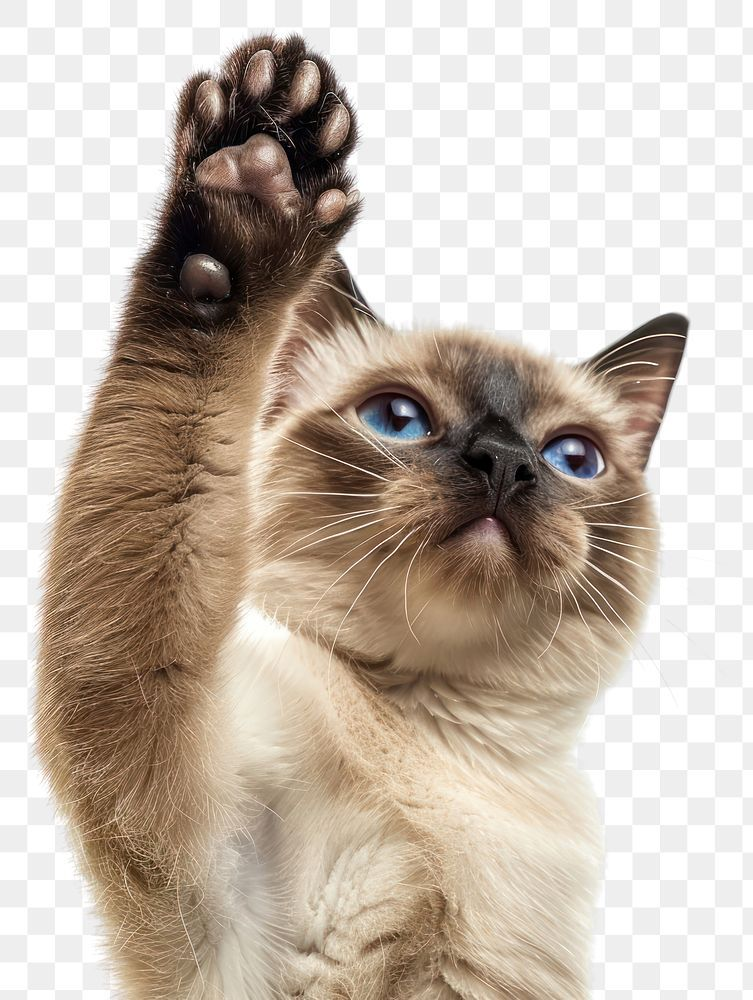
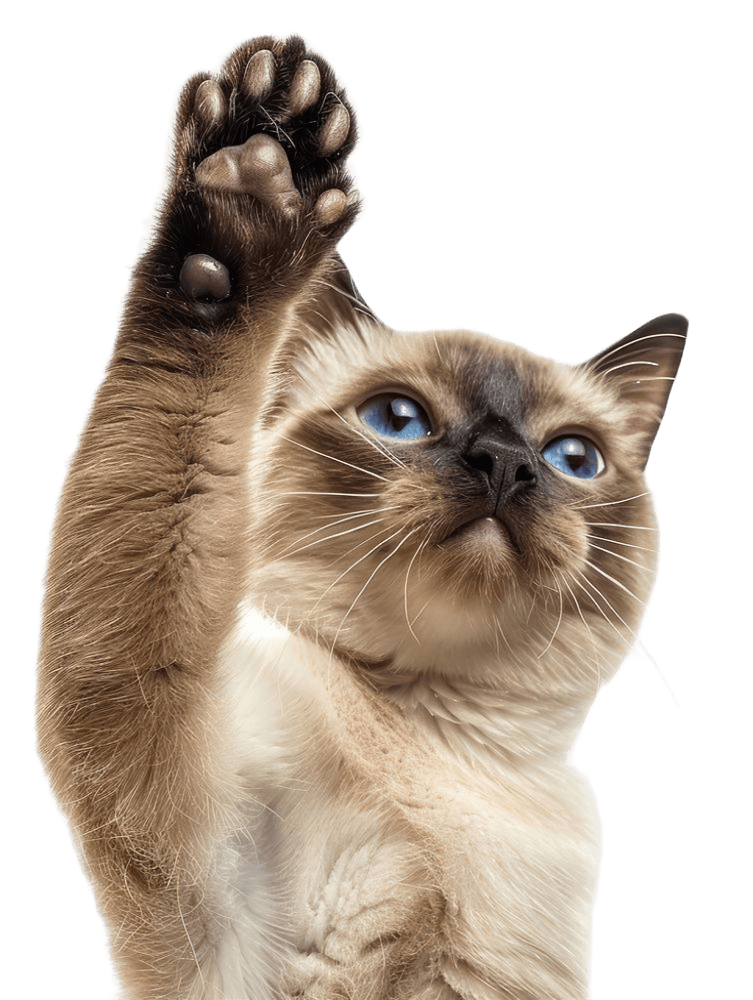
Criei o menu de navegação e a base da tela inicial do site.

diff --git a/style.css b/style.css
@@ -6,10 +6,10 @@
     --font-padrao: Quicksand, sans serif;
     --font-padrao02: Nunito, sans serif;
 
-    --roxo: #501B69;
+    --roxo: #572170;
     --roxo2: #290c37;
-    --lilas: #f9d3ff;
-    --lilas2: #b658c4;
+    --lilas: #f8ceff;
+    --lilas2: #83438d;
     --preto: #000000;
     --branco: #FFFFFF;
 }
@@ -23,4 +23,68 @@
 
 body {
     background-color: var(--lilas);
+}
+
+main {
+    margin-top: 150px;
+    align-items: center;
+}
+
+.hero {
+    display: flex;
+    align-items: center;
+    justify-content: space-between;
+    padding: 2rem 5%;
+    max-width: 1200px;
+    margin: 140px auto 0 auto; /* Mantem o espaçamento da nav*/
+    position: relative;
+}
+
+.petis-texto {
+    flex: 1;
+    max-width: 500px;
+}
+
+/* Container da img com posição relativa*/
+.petis-imagem {
+    flex: 1;
+    position: relative;
+    display: flex;
+    justify-content: center;
+    align-items: flex-end;
+}
+
+/* Imagem dos pets em png*/
+.petis-imagem img {
+    position: relative;
+    z-index: 2; /* Fica á frente do fundo lilás*/
+    max-width: 100%;
+    height: auto;
+    border-radius: 50% 30% 40% 60%;
+}
+
+.fundo-onda {
+    position: absolute;
+    bottom: 0;
+    left: 0;
+    width: 100%;
+    height: 100%;
+    background-color: #572170;
+    z-index: 1; /* Fica atrás da img dos pets em png*/
+
+    /* Cria o formato de onda/curva orgânica*/
+    border-radius: 60% 40% 30% 70% / 60% 30% 70% 40%;
+}
+
+.petis-texto {
+    align-items: center;
+    font-weight: bold;
+}
+
+.petis-texto h1 {
+    color: #290c37;
+}
+
+.petis-texto p {
+    color: var(--roxo);
 }

diff --git a/header.css b/header.css
@@ -18,11 +18,21 @@ nav {
     justify-content: center;
     align-items: center;
     position: fixed;
+    top: 0;
+    left: 0;
     width: 100%;
     height: 70px;
     z-index: 1000; /* Para ficar acima do conteúdo.*/
     display: flex;
     padding-top: 60px;
+    padding-bottom: 60px;
+
+    /* Cor de fundo semitransparente*/
+    background-color: #f9d3ff35;
+
+    /* Efeito de desfoque no que passa atrás do nav*/
+    backdrop-filter: blur(10px);
+    -webkit-backdrop-filter: blur(10px); /* Suporte para o Safari*/
 }
 
 .navbar ul {
@@ -38,12 +48,35 @@ nav {
     text-decoration: none;
     color: var(--roxo);
     font-weight: bold;
-    transition-duration: 0.5s;
+    position: relative;
+    padding-bottom: 4px;
+    transition-duration: 0.3s;
 }
 
 .navbar a:hover {
     color: var(--lilas2);
     font-weight: bolder;
+}
+
+.navbar a::after {
+    content: '';
+    position: absolute;
+    bottom: 0;
+    left: 0;
+    width: 0%; /* Começa sem largura */
+    height: 2px; /* Espessura da linha */
+    background-color: var(--roxo);
+    transition: width 0.3s ease-in-out; /* Velocidade da animação */
+}
+
+/* Expande a linha no Hover (ao passar o mouse) */
+.navbar a:hover::after {
+    width: 100%;
+}
+
+/* Mantém a linha expandida na Página Ativa */
+.navbar a.active::after {
+    width: 100%;
 }
 
 .navbar img {

diff --git a/index.html b/index.html
@@ -14,7 +14,7 @@
             <img src="imagens/logo.png" alt="Logo da Petis">
 
             <ul>
-            <li><a href="index.html">Início</a>
+            <li><a href="index.html" class="active">Início</a>
             </li>
 
             <li><a href="produtos.html" target="_blank">Produtos</a>
@@ -22,9 +22,25 @@
         
             <li>
                 <a href="servicos.html" target="_blank">Serviços</a>
-                </ul>
             </li>
+            </ul>
         </nav>
     </header>
+
+    <br>
+
+    <main>
+        <article class="hero">
+            <div class="petis-texto">
+                <h1>Petis, </h1>
+                <p>Amor & cuidado para o seu pet!</p>
+            </div>
+            
+            <div class="petis-imagem">
+                <div class="fundo-onda"></div>
+                <img src="imagens/cat.png" alt="Varios pets felizes juntos">
+            </div>
+        </article>
+    </main>
 </body>
 </html>

diff --git a/produtos.html b/produtos.html
@@ -17,7 +17,7 @@
             <li><a href="index.html">Início</a>
             </li>
 
-            <li><a href="produtos.html" target="_blank">Produtos</a>
+            <li><a href="produtos.html" target="_blank" class="active">Produtos</a>
             </li>
         
             <li>

diff --git a/servicos.html b/servicos.html
@@ -21,7 +21,7 @@
             </li>
         
             <li>
-                <a href="servicos.html" target="_blank">Serviços</a>
+                <a href="servicos.html" target="_blank" class="active">Serviços</a>
                 </ul>
             </li>
         </nav>
